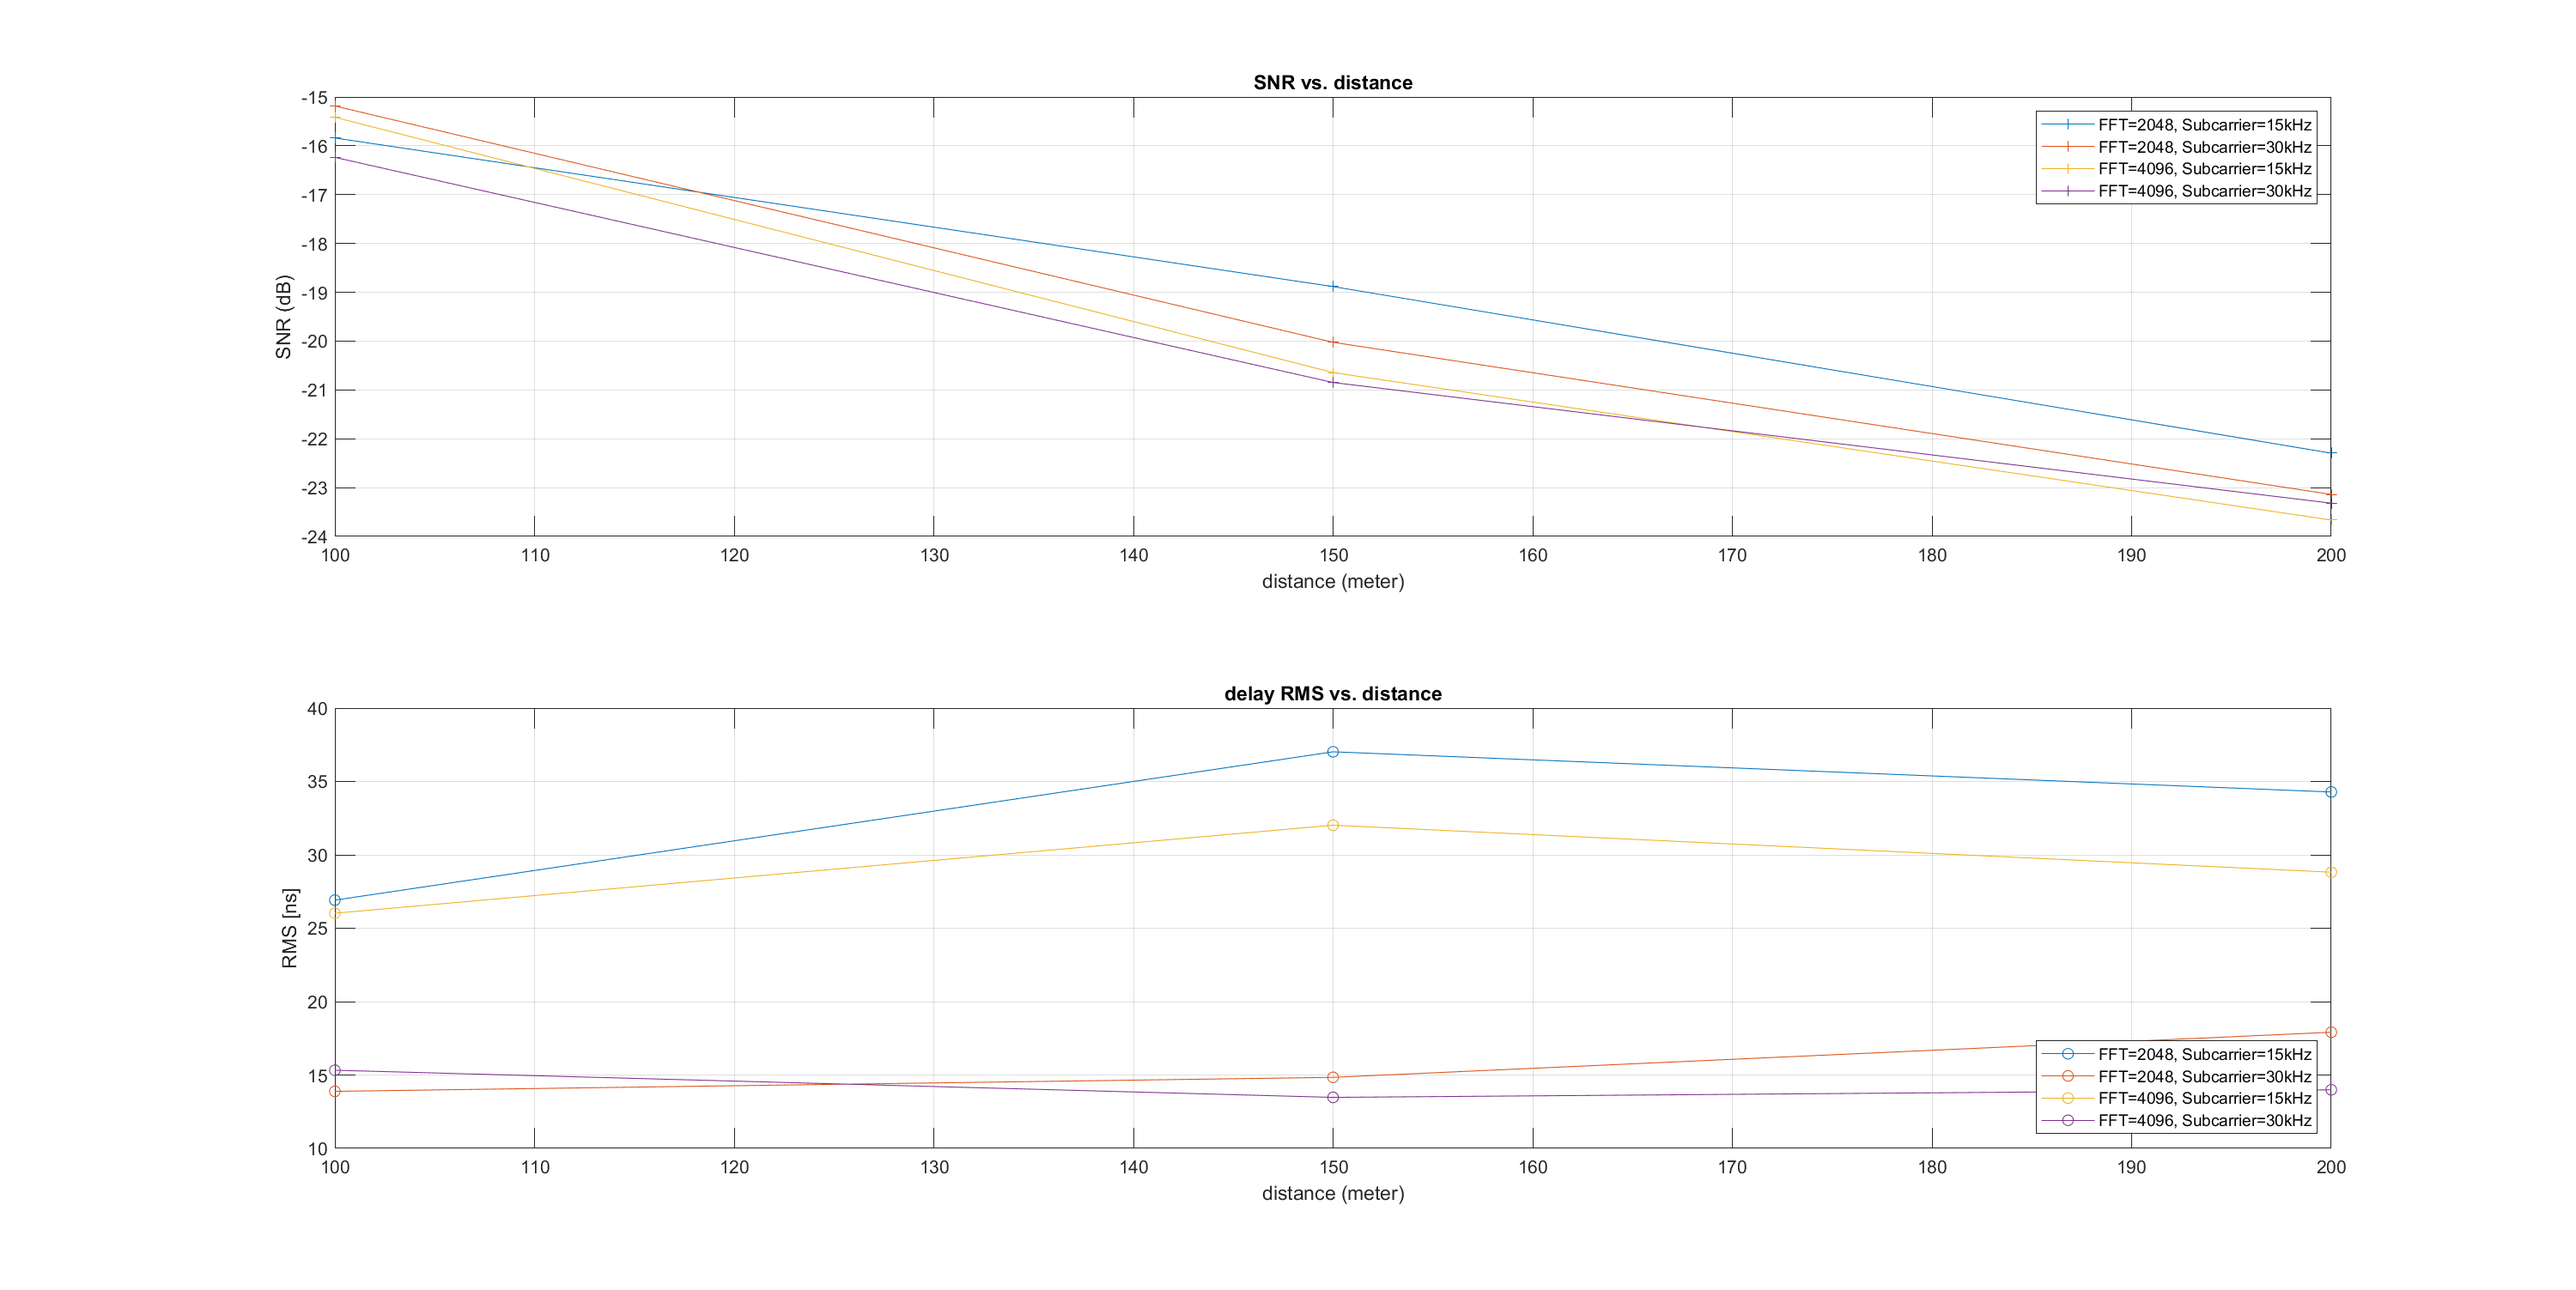
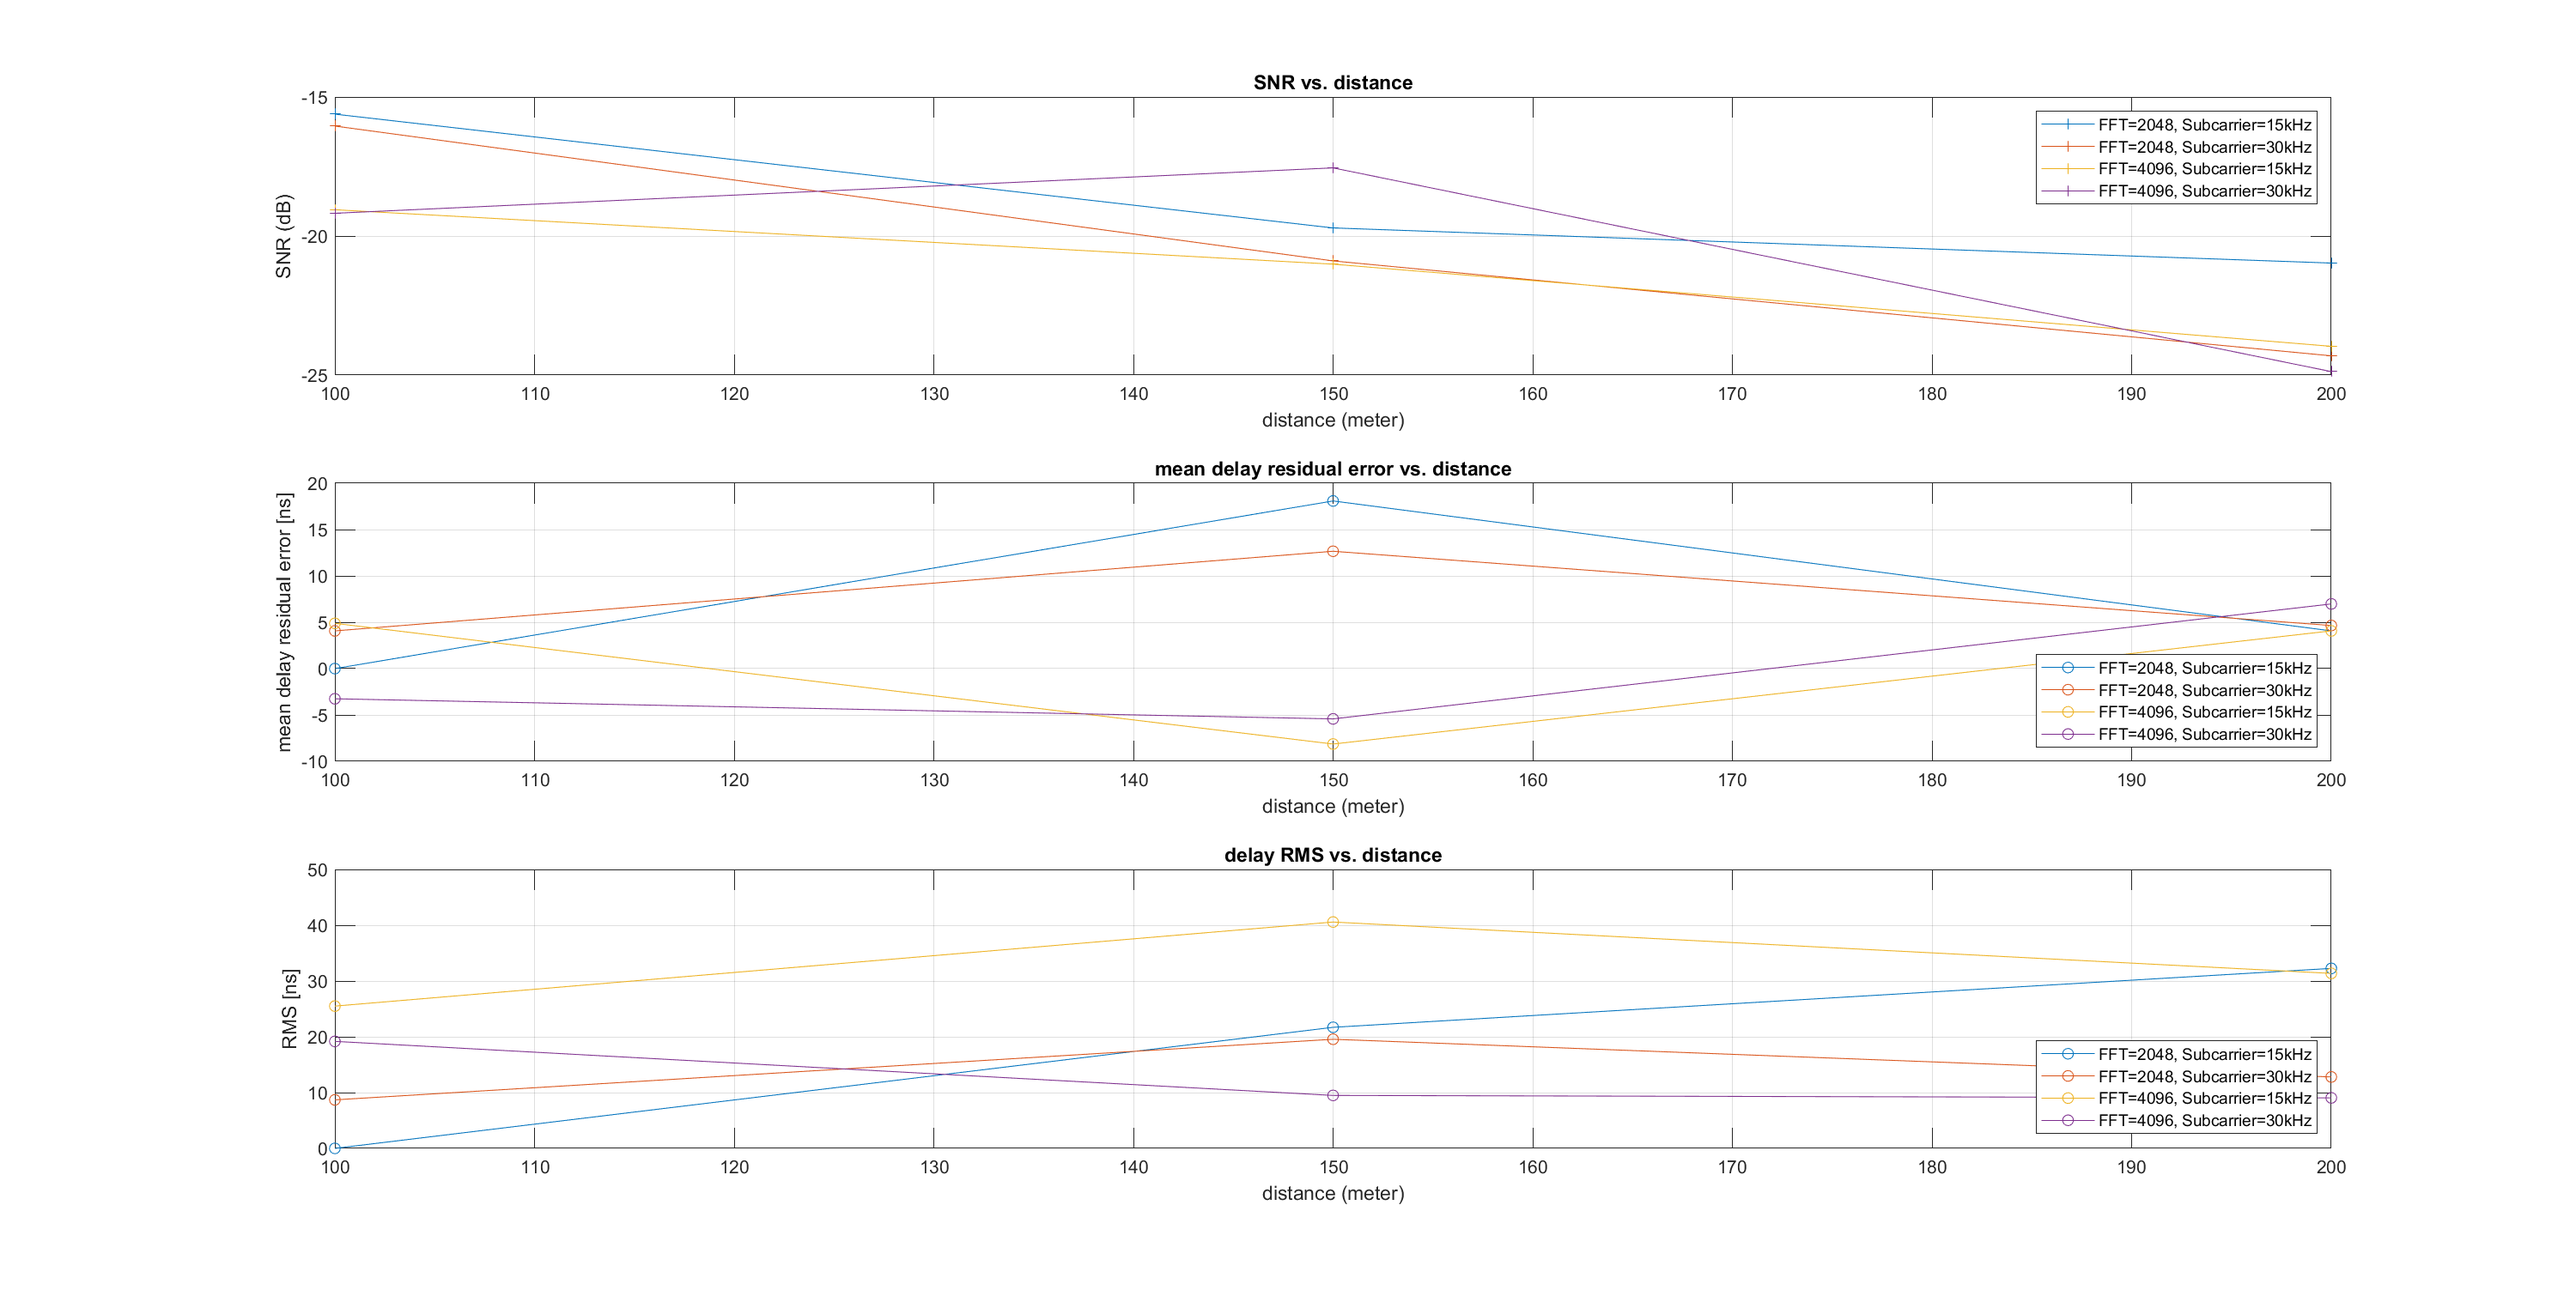
plot the mean residual error

diff --git a/matlab/save_plot_results_f.m b/matlab/save_plot_results_f.m
@@ -1,5 +1,5 @@
 
-function save_plot_results_f(file_name, nFFTs, subcs, d, SNR_avg, Time_Err_Var_sec)
+function save_plot_results_f(file_name, nFFTs, subcs, d, SNR_avg, Time_Err_Mean_sec, Time_Err_Var_sec)
 close('all')
 
 legends = {};
@@ -8,7 +8,7 @@ for nFFT_i = 1 : length(nFFTs)
     for subc_i = 1 : length(subcs)
         subc = subcs(subc_i);
         
-        subplot(2, 1, 1);
+        subplot(3, 1, 1);
         plot(d, SNR_avg{nFFT_i}{subc_i}, '-+');
         grid on;
 
@@ -18,19 +18,30 @@ for nFFT_i = 1 : length(nFFTs)
         title(sprintf('SNR vs. distance'));  
         hold on;
 
-        subplot(2, 1, 2);
+        subplot(3, 1, 2);
+        plot(d, Time_Err_Mean_sec{nFFT_i}{subc_i} * 1e9, '-o'); % plot the performance curve
+        grid on;        
+        xlabel('distance (meter)');
+        ylabel('mean delay residual error [ns]');
+        title(sprintf('mean delay residual error vs. distance'));  
+        hold on;
+        
+        subplot(3, 1, 3);
         plot(d, Time_Err_Var_sec{nFFT_i}{subc_i} * 1e9, '-o'); % plot the performance curve
         grid on;        
         xlabel('distance (meter)');
         ylabel('RMS [ns]');
         title(sprintf('delay RMS vs. distance'));  
-        hold on;
+        hold on;        
     end
 end
-subplot(2, 1, 1);
+subplot(3, 1, 1);
 legend(legends, 'Location', 'northeast');
 hold off;
-subplot(2, 1, 2);
+subplot(3, 1, 2);
+legend(legends, 'Location', 'southeast');
+hold off;
+subplot(3, 1, 3);
 legend(legends, 'Location', 'southeast');
 hold off;
 saveas(gcf, file_name, 'png');

diff --git a/matlab/DelayEst_Test_36901_f.m b/matlab/DelayEst_Test_36901_f.m
@@ -99,7 +99,7 @@ for sub_scenario_i = 1 : numel(sub_scenarios)
 
 
     file_name = sprintf('%s_%s', scenario, sub_scenario);
-    save_plot_results_f(file_name, nFFTs, subcs, d, SNR_avg, Time_Err_Var_sec);
+    save_plot_results_f(file_name, nFFTs, subcs, d, SNR_avg, Time_Err_Mean_sec, Time_Err_Var_sec);
 end
 
 
